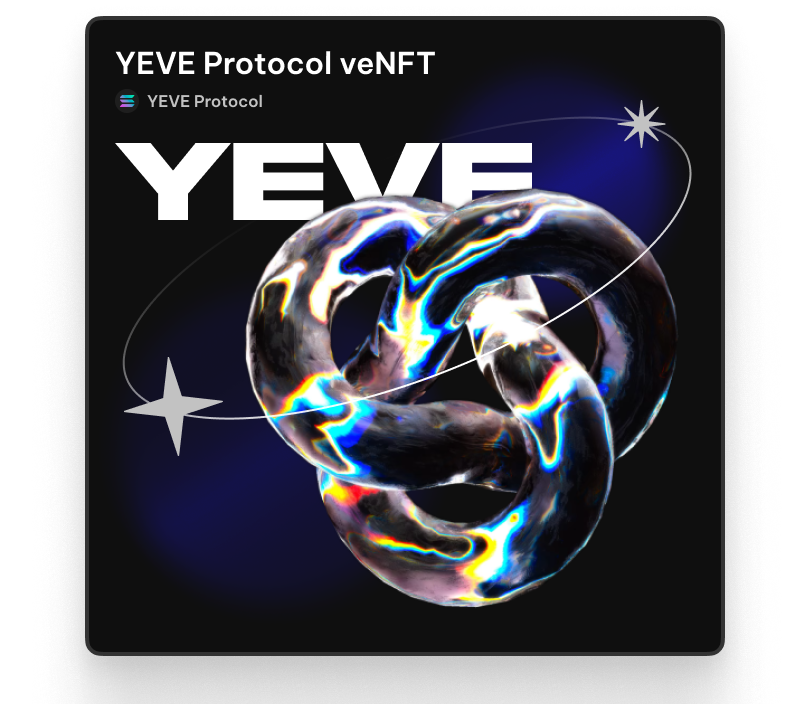
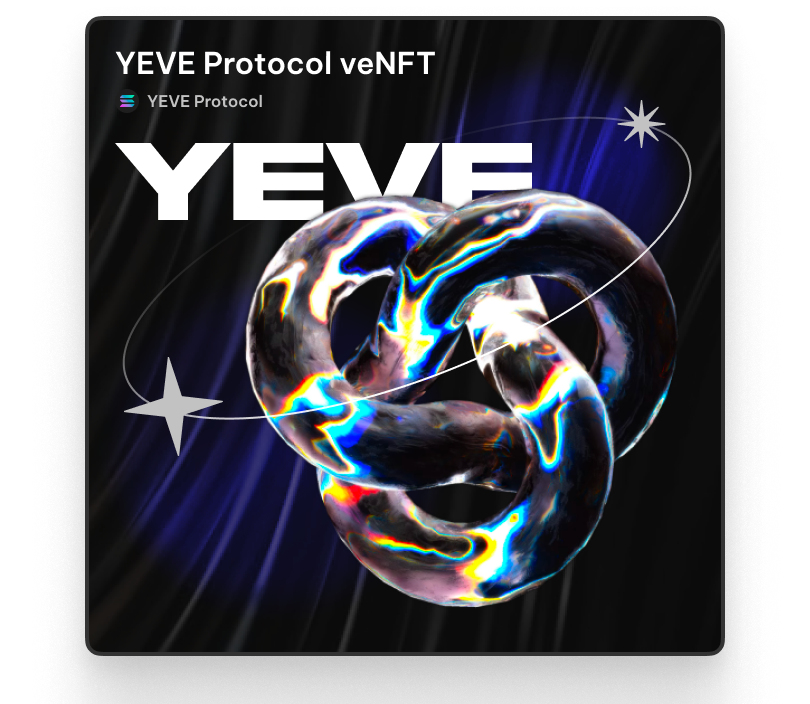
fix responsive

diff --git a/src/pages/Vote/Vote.styled.tsx b/src/pages/Vote/Vote.styled.tsx
@@ -4,6 +4,12 @@ import { styled } from 'styled-components';
 export const PageContainer = styled.div`
   margin-top: 80px;
   padding: 0 16px;
+
+  @media (max-width: 768px) {
+    margin-top: 24px;
+    background-color: ${({ theme }) => theme.colors.gray['950']};
+    padding-bottom: 12px;
+  }
 `;
 export const SmallText = styled.div`
   font-size: 12px;
@@ -21,7 +27,8 @@ export const EnterVote = styled.div`
   align-items: center;
   justify-content: space-between;
   width: 150px;
-  padding: 0 12px;
+  padding: 12px;
+  border-radius: 4px;
   input {
     background: transparent;
     border: none;
@@ -39,8 +46,17 @@ export const EnterVote = styled.div`
     border-radius: 4px;
     background-color: ${({ theme }) => theme.colors.purple['500']};
     border: none;
-    height: 30px;
-    color: white;
+    padding: 4px 8px;
+    display: flex;
+    align-items: center;
+    justify-content: center;
+
+    > span {
+      color: ${({ theme }) => theme.colors.gray['50']};
+      font-size: 12px;
+      font-weight: 600;
+      line-height: 16px;
+    }
   }
 `;
 

diff --git a/src/components/common/Table/Controller/Controller.styled.tsx b/src/components/common/Table/Controller/Controller.styled.tsx
@@ -114,8 +114,9 @@ export const TabContainer = styled.div`
     display: flex;
     align-items: center;
     justify-content: center;
-    padding: 16px;
+    padding: 0 16px;
     border-radius: 4px;
+    height: 48px;
 
     > span {
       font-size: 14px;
@@ -169,6 +170,7 @@ export const ControllerModalForm = styled.div`
   border-radius: 8px;
   width: 30%;
   max-height: 60%;
+  height: fit-content;
   display: flex;
   flex-direction: column;
   gap: 16px;
@@ -176,6 +178,11 @@ export const ControllerModalForm = styled.div`
 
   > div {
     display: block;
+  }
+
+  @media screen and (max-width: 530px) {
+    width: 100%;
+    margin: 0 16px;
   }
 `;
 
@@ -191,6 +198,14 @@ export const ControllerModalContainer = styled.div`
   z-index: 999;
   background: ${({ theme }) => `${theme.colors.gray['1000']}80`};
   backdrop-filter: blur(4px);
+
+  @media screen and (max-width: 960px) {
+    align-items: unset;
+
+    > div {
+      margin-top: 112px;
+    }
+  }
 `;
 
 export const Controller = styled.div`

diff --git a/src/pages/SwapPage/Swap/SelectToken/TokenModal/index.tsx b/src/pages/SwapPage/Swap/SelectToken/TokenModal/index.tsx
@@ -20,6 +20,7 @@ import { useEffect, useRef, useState } from 'react';
 import CloseIcon from '@src/assets/images/svg/close-icon';
 import { useOnClickOutside } from 'usehooks-ts';
 import ArrowUpRightIcon from '@src/assets/images/svg/pools/arrow-up-right-icon';
+import { sliceAddress } from '@src/utils/misc';
 
 type TokenModalProps = {
   onClose: () => void;
@@ -53,6 +54,7 @@ export default function TokenModal({ onClose, handleSelect }: TokenModalProps) {
   };
 
   const handleSelectToken = (item: Record<string, any>) => {
+    console.log(item)
     handleSelect(item);
     handleClose();
   };
@@ -106,7 +108,7 @@ export default function TokenModal({ onClose, handleSelect }: TokenModalProps) {
               </div>
               <TokenAddress>
                 <div>
-                  <span>{item.address}</span>
+                  <span>{sliceAddress(item.address)}</span>
                   <ArrowUpRightIcon />
                 </div>
               </TokenAddress>

diff --git a/src/components/layouts/LandingPageHeader/Header.styled.tsx b/src/components/layouts/LandingPageHeader/Header.styled.tsx
@@ -19,10 +19,10 @@ export const HeaderContainer = styled.div`
 
 export const Button = styled.button<{ padding?: string }>`
   border-radius: 4px;
-  background-color: #151515;
+  background-color: ${({ theme }) => theme.colors.gray['900']};
+  border: 2px solid ${({ theme }) => theme.colors.gray['900']};
   padding: ${(props) => props.padding || '12px'};
-  border: none;
-  color: white;
+  color: ${({ theme }) => theme.colors.gray['100']};
   font-size: 16px;
   font-style: normal;
   font-weight: 600;
@@ -30,6 +30,13 @@ export const Button = styled.button<{ padding?: string }>`
   gap: 8px;
   align-items: center;
   cursor: pointer;
+
+  &.dark {
+    &:hover {
+      background-color: ${({ theme }) => theme.colors.gray['850']};
+      border-color: ${({ theme }) => theme.colors.gray['700']};
+    }
+  }
 `;
 
 export const FlexContainer = styled.div`

diff --git a/src/pages/LandingPage/index.tsx b/src/pages/LandingPage/index.tsx
@@ -147,17 +147,17 @@ export default function LandingPage() {
 
           <LandingBottomRight>
             <StarRoundIcon />
-            <Button>SWAP</Button>
-            <Button>EARN</Button>
+            <Button className="dark">SWAP</Button>
+            <Button className="dark">EARN</Button>
             <ArrowPointHorizontalIcon />
-            <Button>BRIBE</Button>
-            <Button>VOTE</Button>
-            <Button>REWARD</Button>
+            <Button className="dark">BRIBE</Button>
+            <Button className="dark">VOTE</Button>
+            <Button className="dark">REWARD</Button>
             <StarIcon />
           </LandingBottomRight>
         </LandingBottom>
       </LandingInsideContainer>
-      <Footer />
+      <Footer className="landing-page-footer" />
     </LandingContainer>
   );
 }

diff --git a/src/example-data/pools.ts b/src/example-data/pools.ts
@@ -65,7 +65,7 @@ export const LIQUIDITY_POOLS_DATA = [
 export const MY_POOLS_DATA = [
   {
     pair: {
-      name: 'ZERO/USDT',
+      name: 'YEVE/USDT',
       type: 'Stable',
       value: 0.3,
       tokens: [
@@ -79,7 +79,7 @@ export const MY_POOLS_DATA = [
         },
       ],
     },
-    type: 'GAMMA',
+    type: 'KAMINO',
     range: 'In Range',
     poolSize: {
       usd: '18220',
@@ -218,7 +218,7 @@ export const LOCKS_DATA = [
 export const REWARDS_DATA = [
   {
     pair: {
-      name: 'ZERO/USDT',
+      name: 'YEVE/USDT',
       type: 'Stable',
       value: 0.3,
       tokens: [
@@ -253,7 +253,7 @@ export const REWARDS_DATA = [
 export const VOTING_REWARDS_DATA = [
   {
     pair: {
-      name: 'ZERO/USDT',
+      name: 'YEVE/USDT',
       type: 'Stable',
       value: 0.3,
       tokens: [

diff --git a/src/pages/SwapPage/Swap/SelectToken/TokenModal/TokenModal.styled.tsx b/src/pages/SwapPage/Swap/SelectToken/TokenModal/TokenModal.styled.tsx
@@ -205,7 +205,7 @@ export const TokenModalForm = styled.div`
   padding: 24px;
   background: ${({ theme }) => theme.colors.gray['950']};
   border-radius: 8px;
-  width: 30%;
+  width: 40%;
   max-height: 60%;
   display: flex;
   flex-direction: column;
@@ -216,10 +216,6 @@ export const TokenModalForm = styled.div`
   }
 
   @media screen and (max-width: 960px) {
-    width: 60%;
-  }
-
-  @media screen and (max-width: 680px) {
     width: 90%;
   }
 `;
@@ -236,4 +232,12 @@ export const TokenModalContainer = styled.div`
   z-index: 999;
   background: ${({ theme }) => `${theme.colors.gray['1000']}80`};
   backdrop-filter: blur(4px);
+
+  @media screen and (max-width: 960px) {
+    align-items: unset;
+
+    > div {
+      margin-top: 112px;
+    }
+  }
 `;

diff --git a/src/pages/LiquidityPool/Create/SelectPair/TokenModal/TokenModal.styled.tsx b/src/pages/LiquidityPool/Create/SelectPair/TokenModal/TokenModal.styled.tsx
@@ -170,6 +170,14 @@ export const TokenModalForm = styled.div`
   display: flex;
   flex-direction: column;
   gap: 16px;
+
+  @media screen and (max-width: 1376px) {
+    width: 50%;
+  }
+
+  @media screen and (max-width: 960px) {
+    width: 90%;
+  }
 `;
 
 export const TokenModalContainer = styled.div`
@@ -184,4 +192,12 @@ export const TokenModalContainer = styled.div`
   z-index: 999;
   background: ${({ theme }) => `${theme.colors.gray['1000']}80`};
   backdrop-filter: blur(4px);
+
+  @media screen and (max-width: 960px) {
+    align-items: unset;
+
+    > div {
+      margin-top: 112px;
+    }
+  }
 `;

diff --git a/src/components/layouts/Header/Account/index.tsx b/src/components/layouts/Header/Account/index.tsx
@@ -2,6 +2,7 @@ import { WalletMultiButton } from '@solana/wallet-adapter-react-ui';
 import {
   AccountContainer,
   AccountInfo,
+  ConnectButtonWrap,
   SolanaContainer,
 } from './Account.styled';
 
@@ -10,7 +11,11 @@ type AccountProps = {
 };
 export default function Account({ themeConfig }: AccountProps) {
   const renderWalletButton = () => {
-    return <WalletMultiButton className="bg-secondary hover:bg-[#15539a]" />;
+    return (
+      <ConnectButtonWrap>
+        <WalletMultiButton className="bg-secondary hover:bg-[#15539a]" />
+      </ConnectButtonWrap>
+    );
   };
 
   return (

diff --git a/src/theme/themeConfig.ts b/src/theme/themeConfig.ts
@@ -1,7 +1,7 @@
 /* eslint-disable @typescript-eslint/no-explicit-any */
 import accountAvatar from '@src/assets/images/png/account-avatar.png';
 import solanaLogo from '@src/assets/images/png/solana-logo.png';
-import backgroundDark from '@src/assets/images/png/wade-bg.png';
+import backgroundDark from '@src/assets/images/png/main-bg.png';
 import logoWhite from '@src/assets/images/svg/logo-white.svg';
 import settingIconWhite from '@src/assets/images/svg/setting-white.svg';
 import unlockedIconWhite from '@src/assets/images/svg/unlocked-white.svg';

diff --git a/src/components/layouts/Header/Account/Account.styled.tsx b/src/components/layouts/Header/Account/Account.styled.tsx
@@ -1,5 +1,18 @@
 import { styled } from 'styled-components';
 
+export const ConnectButtonWrap = styled.div`
+  button {
+    background-color: ${({ theme }) => theme.colors.gray['950']};
+    border: 2px solid ${({ theme }) => theme.colors.gray['950']};
+    text-wrap: nowrap;
+
+    &:hover {
+      background-color: ${({ theme }) => theme.colors.gray['900']};
+      border-color: ${({ theme }) => theme.colors.gray['750']};
+    }
+  }
+`;
+
 export const ConnectButton = styled.button`
   width: 200px;
   height: 48px;

diff --git a/src/pages/Vote/index.tsx b/src/pages/Vote/index.tsx
@@ -139,7 +139,10 @@ export default function VotePage() {
                   <EnterVote>
                     <input placeholder="0" />{' '}
                     <div>
-                      % <button>MAX</button>
+                      %{' '}
+                      <button>
+                        <span>MAX</span>
+                      </button>
                     </div>
                   </EnterVote>
                 </EnterVoteWrap>
